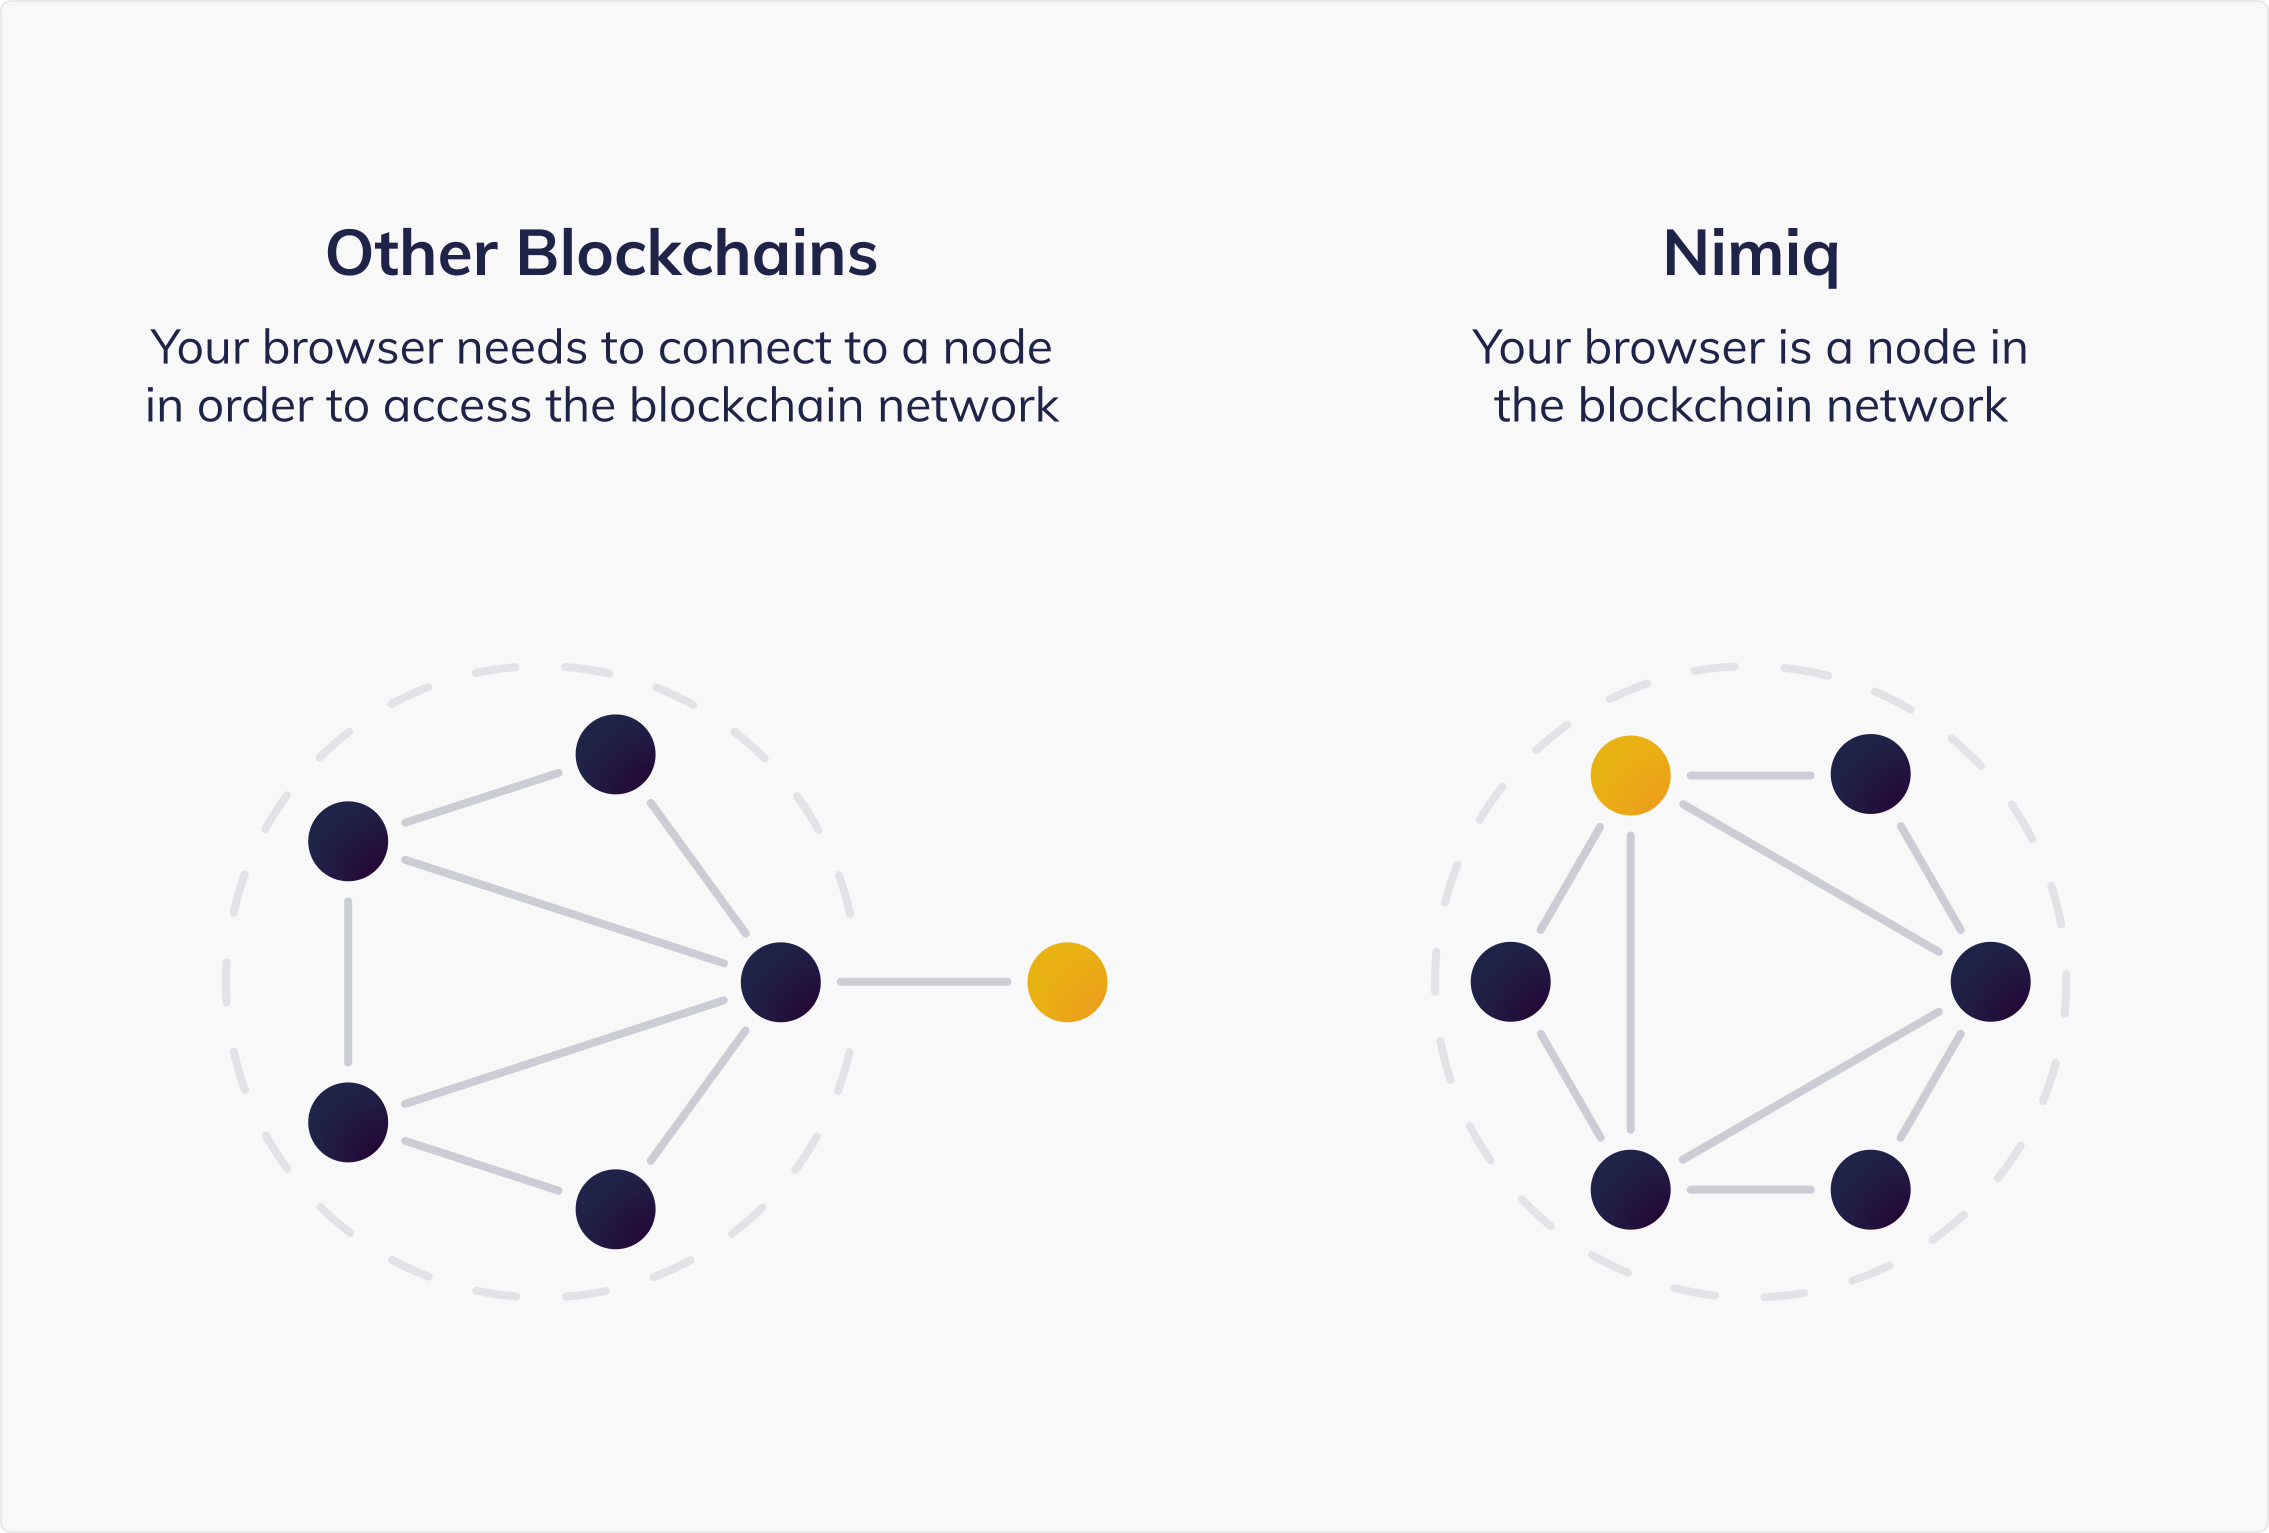
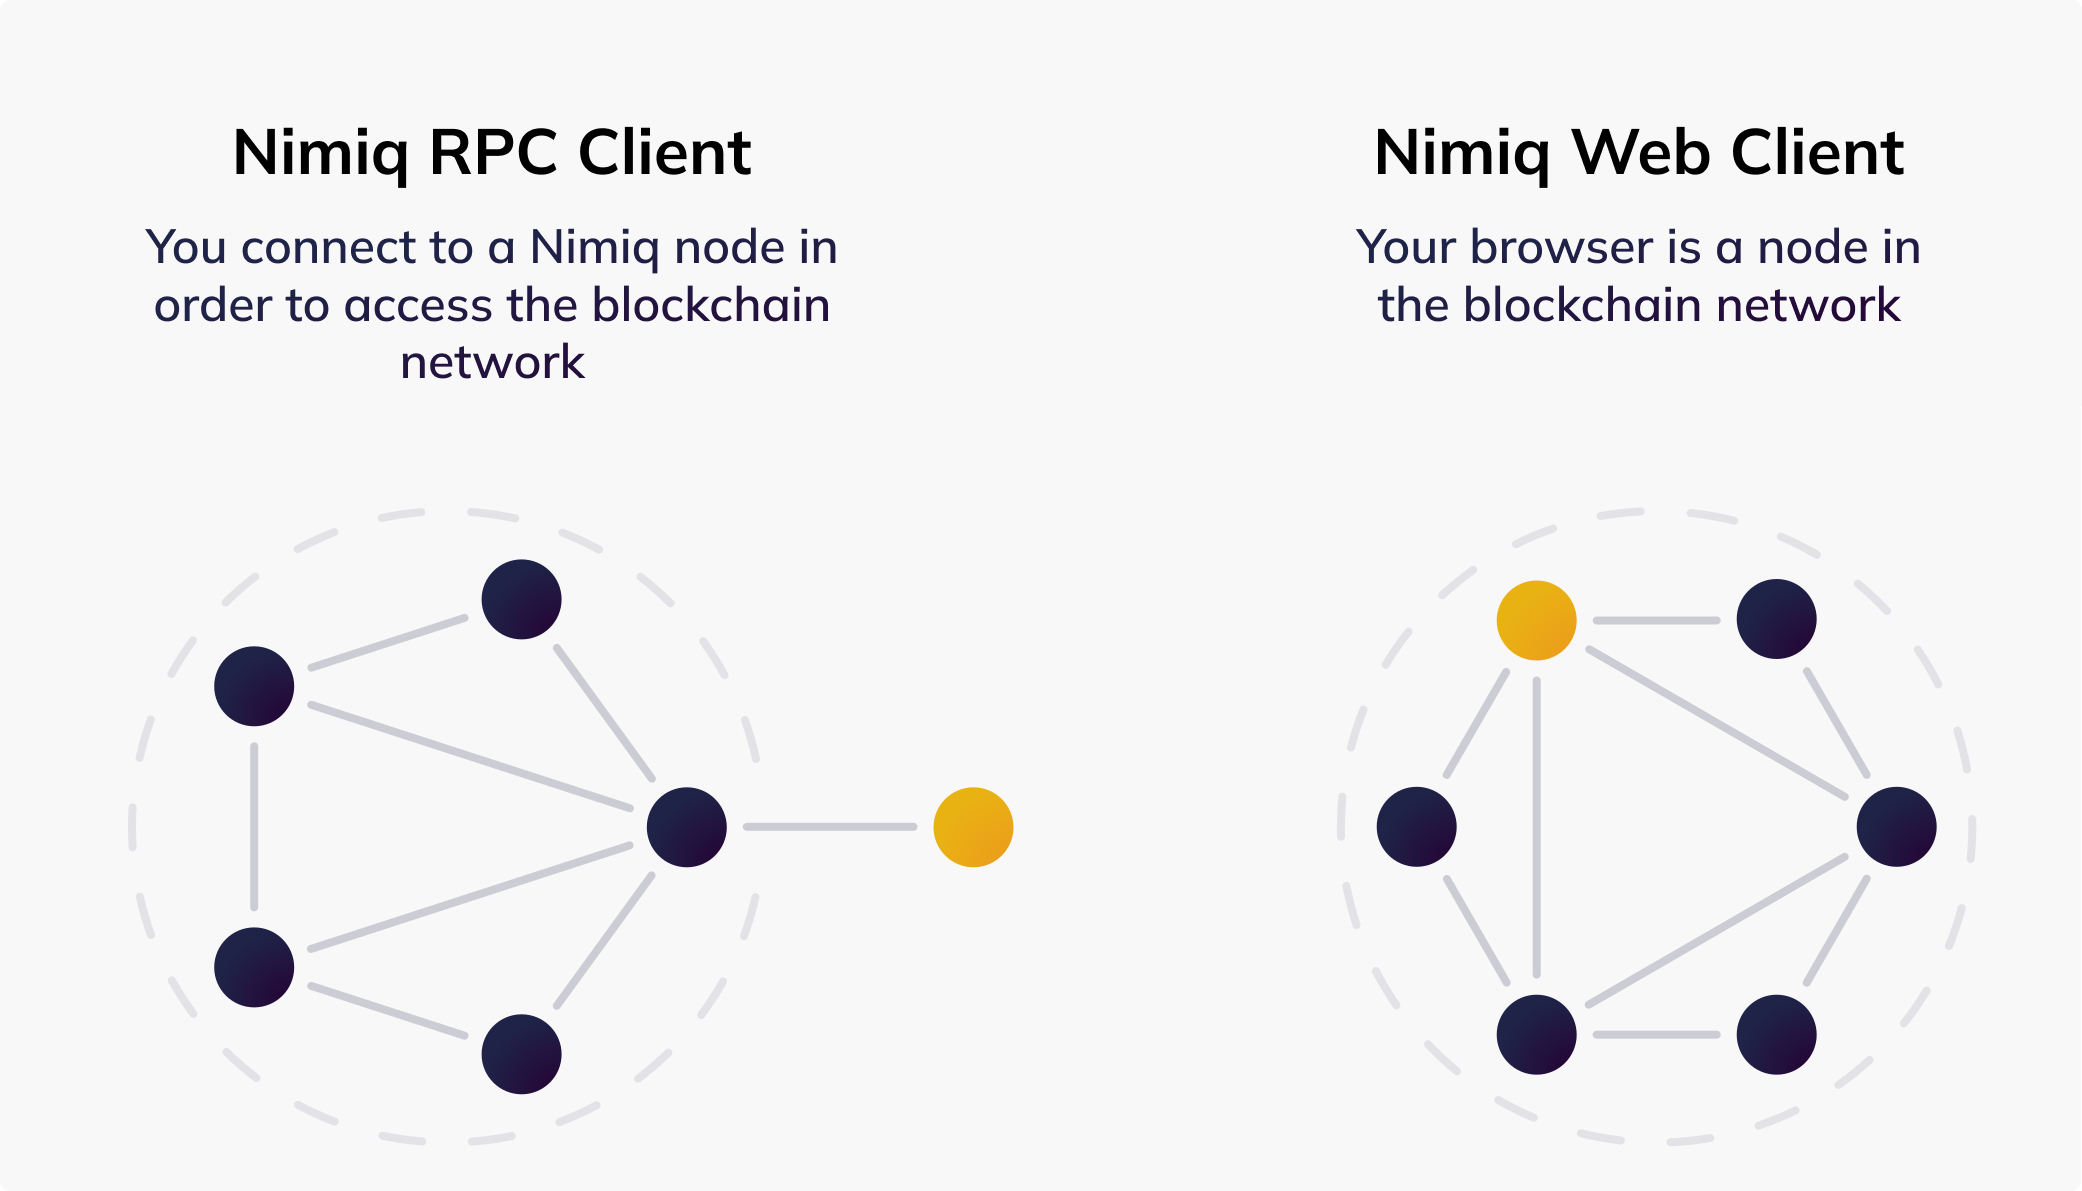
update Web Client VS RPC page

diff --git a/.vitepress/sidebar.config.ts b/.vitepress/sidebar.config.ts
@@ -100,7 +100,7 @@ export const sidebar: DefaultTheme.Sidebar = {
         { text: 'Becoming a Validator', link: '/build/becoming-a-validator' },
         { text: 'Migration to PoS', link: '/build/migration-guide' },
         { text: 'JSON-RPC Specification', link: '/build/rpc-docs/' },
-        { text: 'Web Client x RPC', link: '/build/web-client-rpc' },
+        { text: 'Web Client VS RPC Client', link: '/build/web-client-rpc' },
       ],
     },
     {

diff --git a/build/web-client-rpc.md b/build/web-client-rpc.md
@@ -1,4 +1,4 @@
-# Web Client X RPC
+# Web Client VS RPC Client
 
 If you're unsure which client to use for interacting with the Nimiq blockchain, this page offers a comparison between the Nimiq Web Client and the RPC so you can choose the tool that best fits your needs and expertise. {.subline}
 
@@ -9,7 +9,7 @@ The Nimiq Web Client establishes direct connections with other peers in the netw
 
 ## Nimiq Web Client
 
-The Nimiq Web Client is a JavaScript library that enables direct participation in the Nimiq PoS ecosystem directly from your web browser. This client is compiled from Rust to WebAssembly and offers a lightweight solution for users who want to interact with the Nimiq blockchain.
+The [Nimiq Web Client](/build/web-client/getting-started.md) is a JavaScript library that enables direct participation in the Nimiq PoS ecosystem directly from your web browser. This client is compiled from Rust to WebAssembly and offers a lightweight solution for users who want to interact with the Nimiq blockchain.
 
 The Web Client provides a user-friendly interface for building consensus with other nodes, creating wallets, sending transactions, and interacting with the blockchain with simple operations. It simplifies user interaction and offers easy integration.
 
@@ -17,7 +17,7 @@ Users can access the Web Client on mobile devices, such as smartphones and table
 
 ## Nimiq RPC
 
-The Nimiq RPC provides developers access to the Nimiq blockchain and establishes a connection between a client and a single server, which then interacts with multiple peers on the network.
+The [Nimiq RPC](/build/rpc-docs/index.md) provides developers access to a node that is part of the Nimiq blockchain and establishes a connection between a client and a single server, which then interacts with multiple peers on the network.
 
 The RPC offers more elaborate functionalities, such as retrieving information about the blockchain state, submitting transactions, managing accounts, and configuring node settings. It is particularly valuable for developers and nodes who require advanced control and automation of blockchain operations.
 
